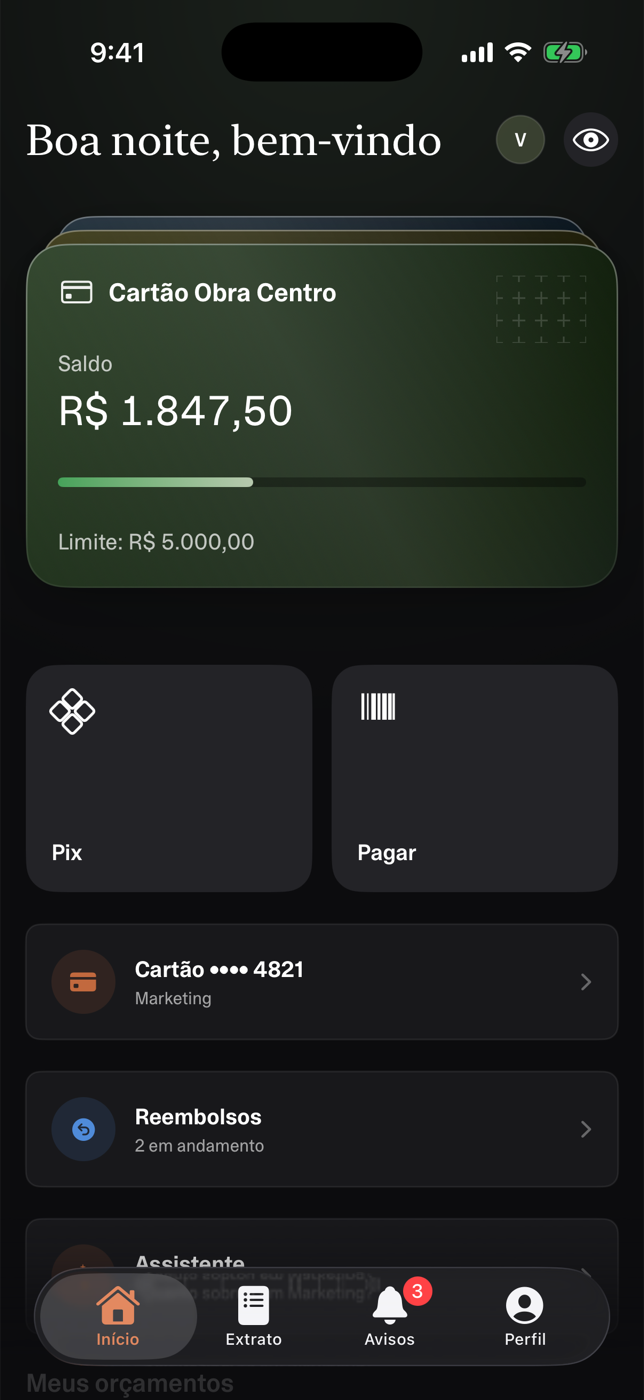
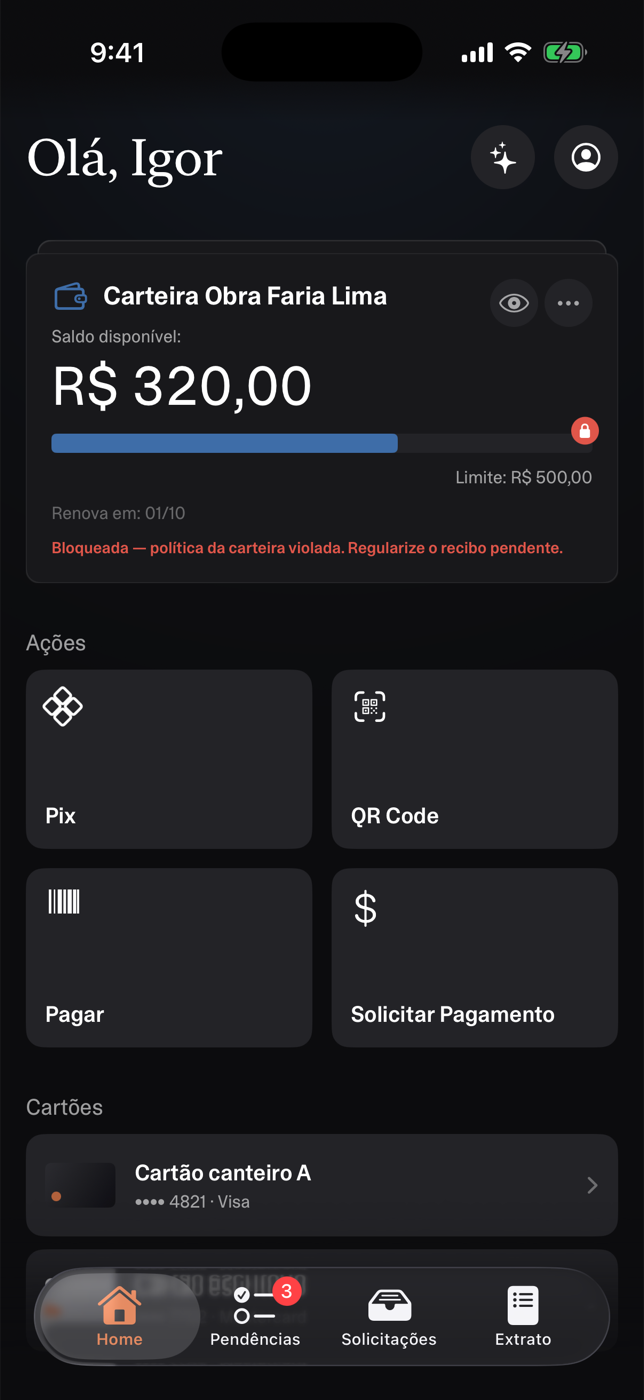
docs: swap README previews for latest employee wallet screenshots

diff --git a/README.md b/README.md
@@ -8,17 +8,14 @@ networking layer.
 
 ## Previews
 
+The employee wallet, from the latest build:
+
 <p>
-  <img src="docs/screenshots/login.png" width="24%" alt="Login" />
-  <img src="docs/screenshots/dashboard.png" width="24%" alt="Dashboard" />
-  <img src="docs/screenshots/payments.png" width="24%" alt="Payments" />
-  <img src="docs/screenshots/detail.png" width="24%" alt="Payment detail" />
-</p>
-<p>
-  <img src="docs/screenshots/approvals.png" width="24%" alt="Approvals" />
-  <img src="docs/screenshots/wallet-home.png" width="24%" alt="Wallet home" />
-  <img src="docs/screenshots/wallet-extrato.png" width="24%" alt="Unified statement" />
-  <img src="docs/screenshots/dashboard-light.png" width="24%" alt="Dashboard, light theme" />
+  <img src="docs/screenshots/wallet-home.png" width="19%" alt="Wallet home" />
+  <img src="docs/screenshots/wallets.png" width="19%" alt="Wallet switcher with recent spends" />
+  <img src="docs/screenshots/pendencias.png" width="19%" alt="Pending receipts" />
+  <img src="docs/screenshots/solicitacoes.png" width="19%" alt="Requests" />
+  <img src="docs/screenshots/extrato.png" width="19%" alt="Unified statement" />
 </p>
 
 ## What I built
